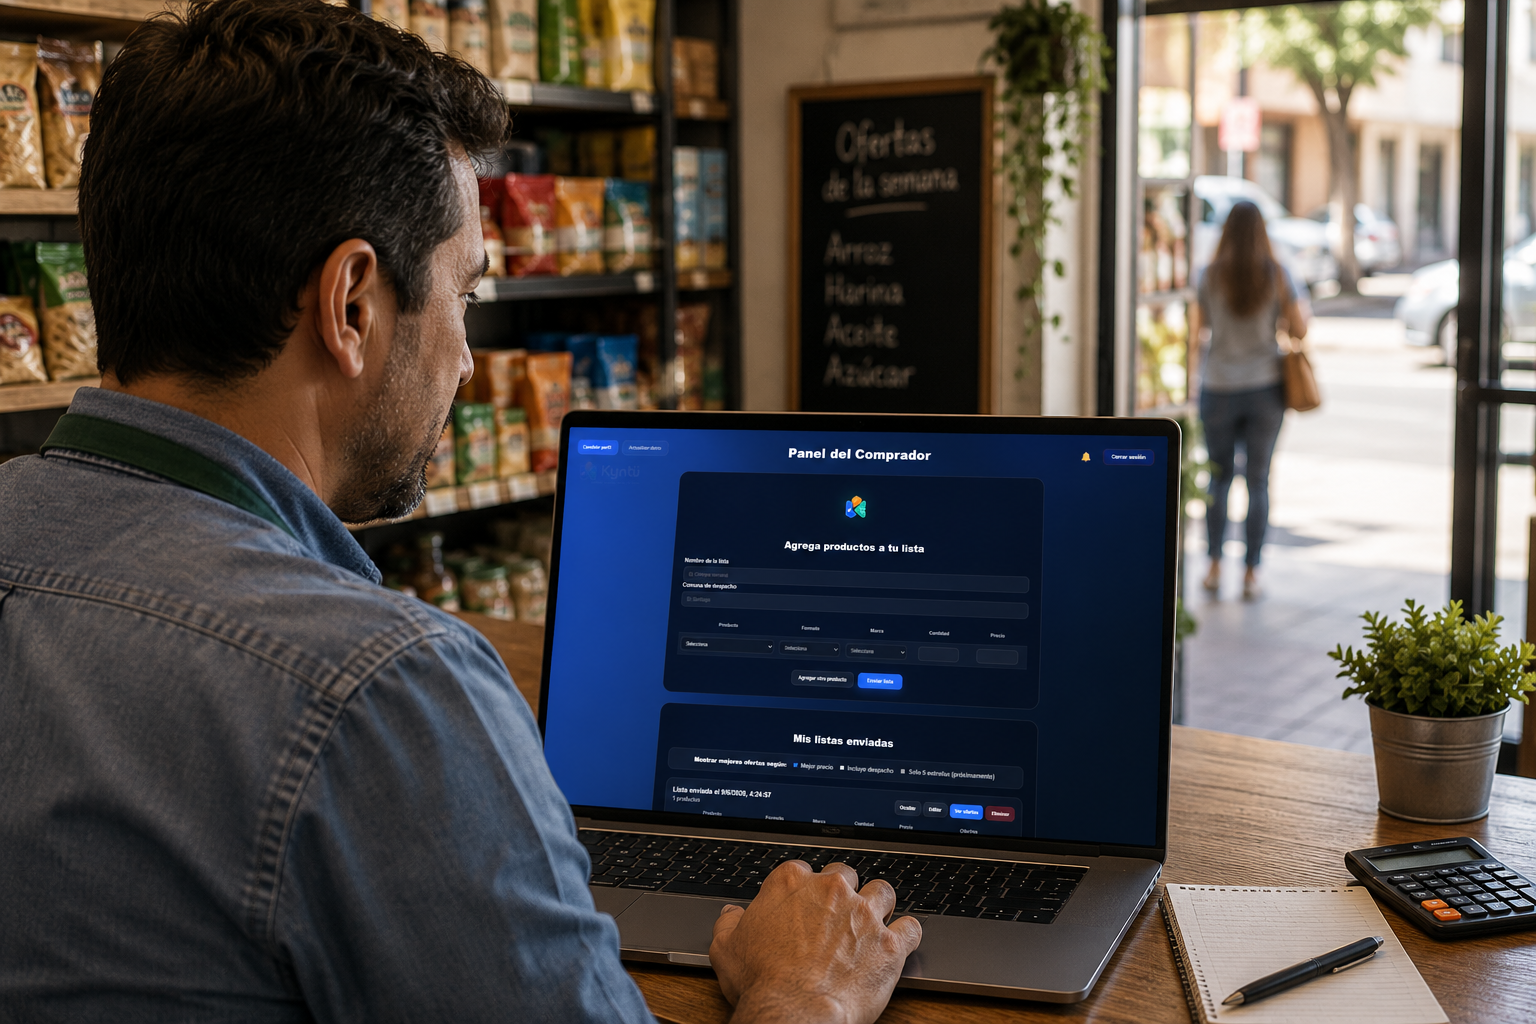
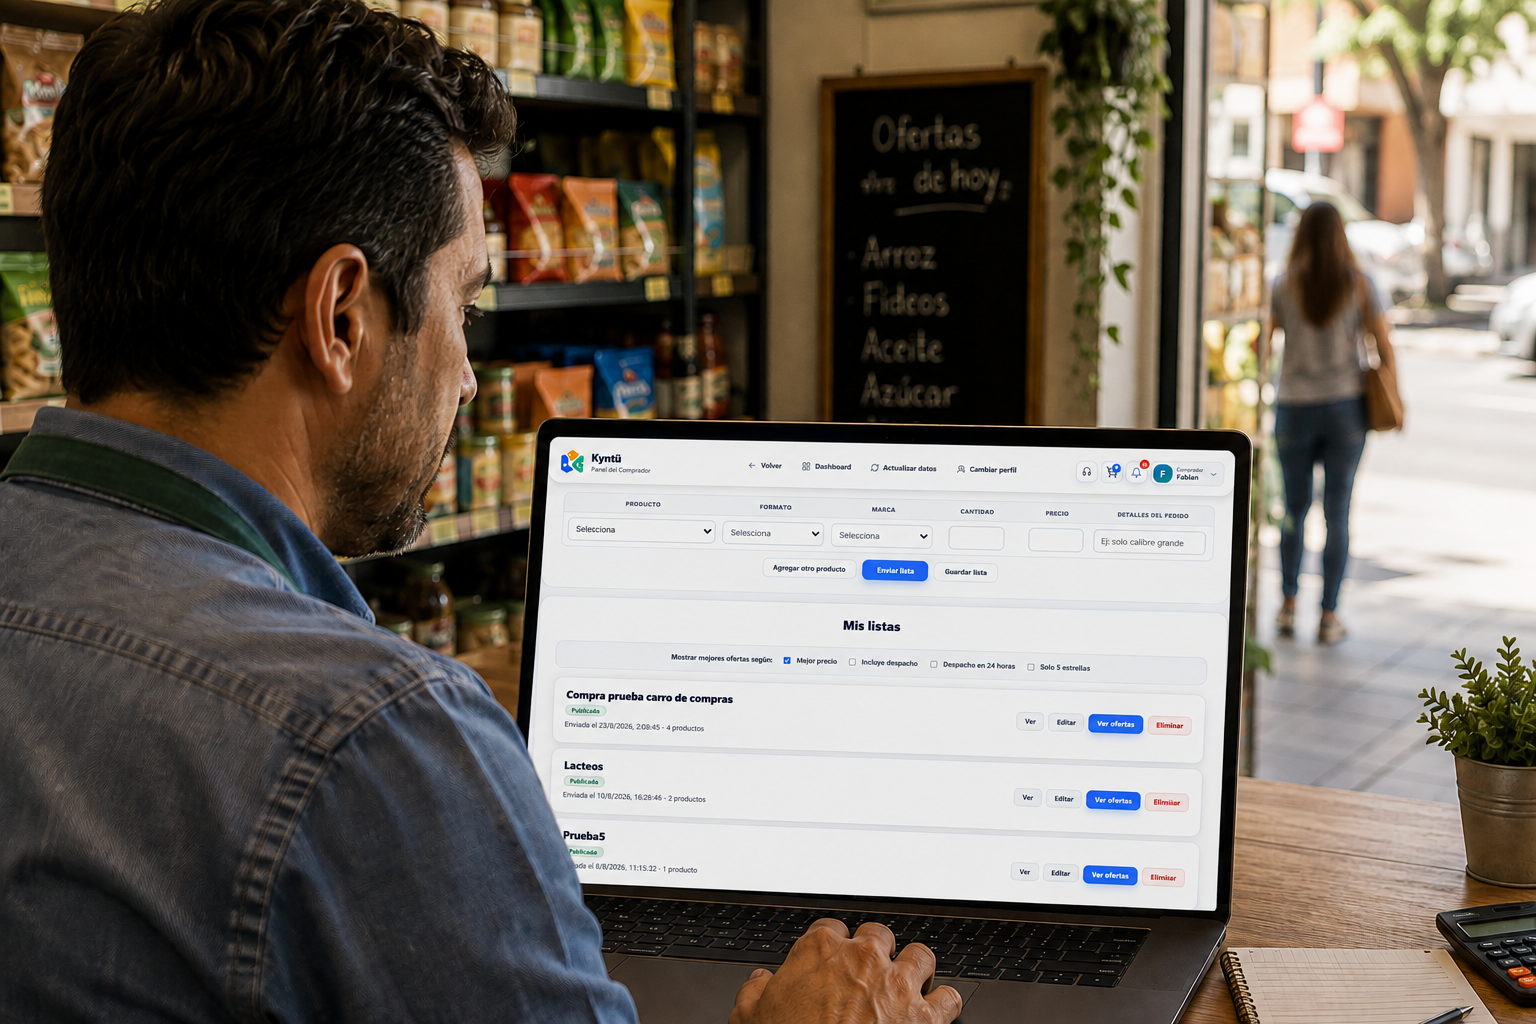
feat(seo): optimiza landing y actualiza mockup

diff --git a/components/landing/LandingPorQue.js b/components/landing/LandingPorQue.js
@@ -10,37 +10,37 @@ import {
 const ITEMS = [
   {
     title: 'Demanda real en vivo',
-    text: 'Cada solicitud nace de una necesidad concreta de compra.',
+    text: 'Cada solicitud nace de una necesidad real de compra, no de una búsqueda al azar.',
     Icon: FiActivity,
     color: 'blue',
   },
   {
     title: 'Menos tiempo cotizando',
-    text: 'No necesitas buscar entre cientos de productos, precios y proveedores.',
+    text: 'Cotiza proveedores online sin buscar entre cientos de productos, precios y proveedores.',
     Icon: FiClock,
     color: 'turquoise',
   },
   {
     title: 'Todo en un solo lugar',
-    text: 'Publica, recibe ofertas y compara alternativas dentro del mismo flujo.',
+    text: 'Tu gestión de compras para pyme en un solo flujo: publica, recibe ofertas y compara.',
     Icon: FiGrid,
     color: 'orange',
   },
   {
     title: 'Más oportunidades comerciales',
-    text: 'Los proveedores llegan donde ya existe intención de compra.',
+    text: 'Más clientes sin salir a buscarlos: accedes a oportunidades de negocio B2B donde ya existe intención real de compra.',
     Icon: FiTrendingUp,
     color: 'violet',
   },
   {
     title: 'Comparación simple',
-    text: 'Las ofertas se ordenan para facilitar la decisión.',
+    text: 'Compara proveedores en Chile con las ofertas ya ordenadas para decidir fácil.',
     Icon: FiSliders,
     color: 'celeste',
   },
   {
     title: 'Mejor relación valor-condiciones',
-    text: 'El comprador puede elegir considerando precio, despacho y condiciones.',
+    text: 'Elige considerando precio, despacho y condiciones — sin sacrificar valor.',
     Icon: FiAward,
     color: 'green',
   },

diff --git a/pages/index.js b/pages/index.js
@@ -5,18 +5,18 @@ export default function Home() {
   return (
     <>
       <Head>
-        <title>Kyntü — Donde la oferta encuentra la demanda</title>
+        <title>Kyntü | Cotiza Proveedores y Consigue Clientes en Chile</title>
         <meta
           name="description"
-          content="Publica lo que necesitas, recibe ofertas y compara las mejores alternativas en un solo lugar. Compara. Cotiza. Elige. Crece."
+          content="Publica lo que necesitas y recibe cotizaciones de proveedores en minutos. Compara ofertas y elige la mejor opción con Kyntü, la plataforma que conecta compradores y proveedores en Chile."
         />
         <meta
           property="og:title"
-          content="Kyntü — Donde la oferta encuentra la demanda"
+          content="Kyntü | Cotiza Proveedores y Consigue Clientes en Chile"
         />
         <meta
           property="og:description"
-          content="No busques entre cientos de productos y proveedores. Publica tu necesidad, recibe ofertas y elige con claridad."
+          content="Publica lo que necesitas y recibe cotizaciones de proveedores en minutos. Compara ofertas y elige la mejor opción con Kyntü, la plataforma que conecta compradores y proveedores en Chile."
         />
         <meta property="og:type" content="website" />
       </Head>

diff --git a/components/landing/LandingFlujo.js b/components/landing/LandingFlujo.js
@@ -7,7 +7,7 @@ const STEPS = [
     core: false,
   },
   {
-    label: 'Los proveedores presentan ofertas',
+    label: 'Los proveedores envían sus cotizaciones',
     hint: 'Recibes propuestas con precio, despacho y condiciones.',
     core: false,
   },
@@ -17,7 +17,7 @@ const STEPS = [
     core: true,
   },
   {
-    label: 'Compara y elige',
+    label: 'Compara proveedores y elige',
     hint: 'Decides considerando precio, despacho y condiciones.',
     core: false,
   },
@@ -58,7 +58,7 @@ export default function LandingFlujo() {
             <div className="landing-flujo__mockup-frame">
               <img
                 src={MOCKUP_ART}
-                alt="Vista de solicitudes y ofertas en Kyntü"
+                alt="Comprador revisando cotizaciones de proveedores en Kyntü, la plataforma que conecta compradores y proveedores en Chile"
                 className="landing-flujo__mockup-art"
               />
             </div>

diff --git a/components/landing/LandingProblema.js b/components/landing/LandingProblema.js
@@ -1,11 +1,11 @@
 const ITEMS = [
   {
     title: 'Para quien compra',
-    text: 'Comprar suele implicar buscar proveedores, comparar precios en distintos canales y perder tiempo coordinando.',
+    text: 'Cotizar proveedores hoy implica buscar en distintos canales, comparar precios manualmente y perder tiempo coordinando cada respuesta.',
   },
   {
     title: 'Para quien provee',
-    text: 'Vender implica salir a buscar compradores sin saber quién necesita realmente tu producto hoy.',
+    text: 'Vender servicios y productos a empresas ya no significa salir a buscar clientes potenciales uno por uno: te encuentran donde ya existe la necesidad.',
   },
 ];
 

diff --git a/components/landing/LandingHero.js b/components/landing/LandingHero.js
@@ -5,13 +5,13 @@ const ROLE_STRIPS = [
   {
     id: 'comercio',
     title: '¿Tienes un comercio?',
-    text: 'Regístrate, sube tu lista y deja que proveedores oferten.',
+    text: 'Regístrate, publica tu necesidad de compra y deja que los proveedores te oferten.',
     btnClass: 'landing-btn--primary',
   },
   {
     id: 'proveedor',
     title: '¿Quieres proveer?',
-    text: 'Encuentra demanda activa y ofrece tus productos donde ya existe intención de compra.',
+    text: 'Consigue clientes sin salir a buscarlos: ofrece tus productos donde ya existe intención real de compra.',
     btnClass: 'landing-btn--teal',
   },
 ];

diff --git a/components/landing/LandingCta.js b/components/landing/LandingCta.js
@@ -5,14 +5,14 @@ const ITEMS = [
   {
     id: 'comercio',
     title: '¿Tienes un comercio?',
-    text: 'Sube tu lista y recibe ofertas comparables.',
+    text: 'Sube tu lista y recibe cotizaciones de proveedores comparables.',
     Icon: FiShoppingBag,
     btnClass: 'landing-btn--primary',
   },
   {
     id: 'proveedor',
     title: '¿Quieres proveer?',
-    text: 'Encuentra compradores con demanda activa.',
+    text: 'Encuentra clientes sin salir a buscarlos: compradores con demanda activa.',
     Icon: FiTruck,
     btnClass: 'landing-btn--teal',
   },
